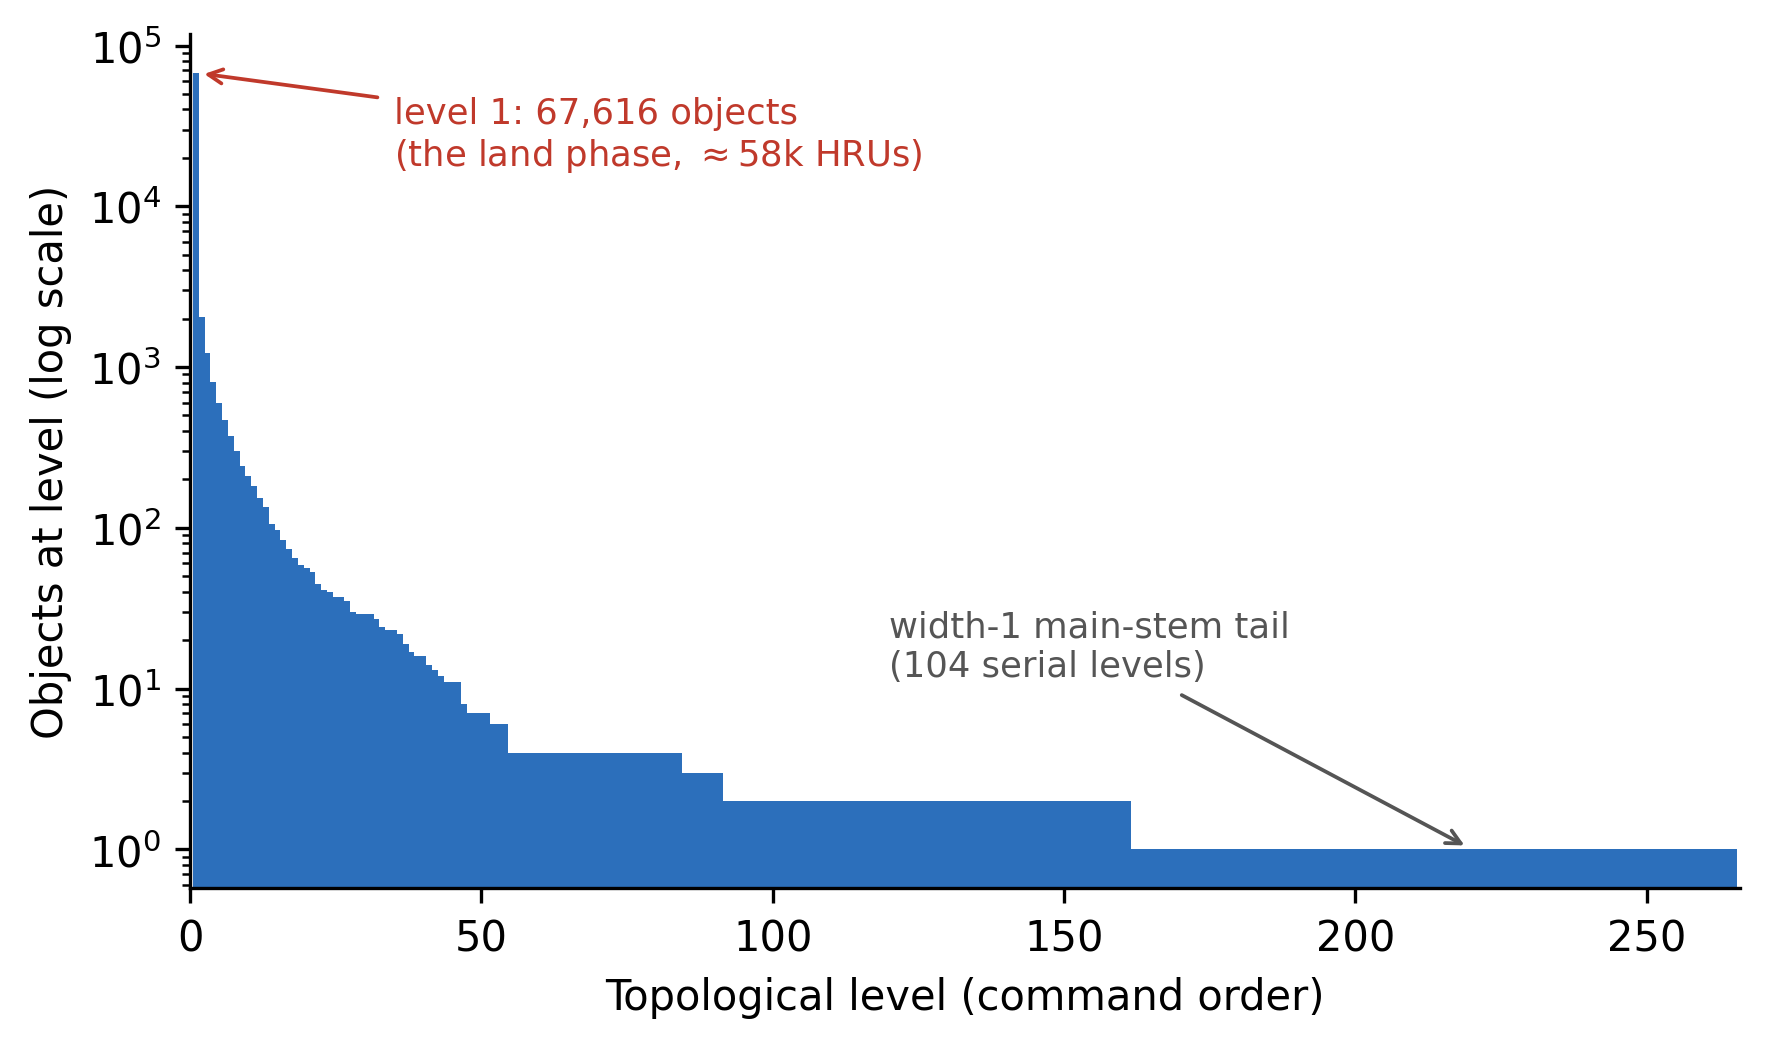
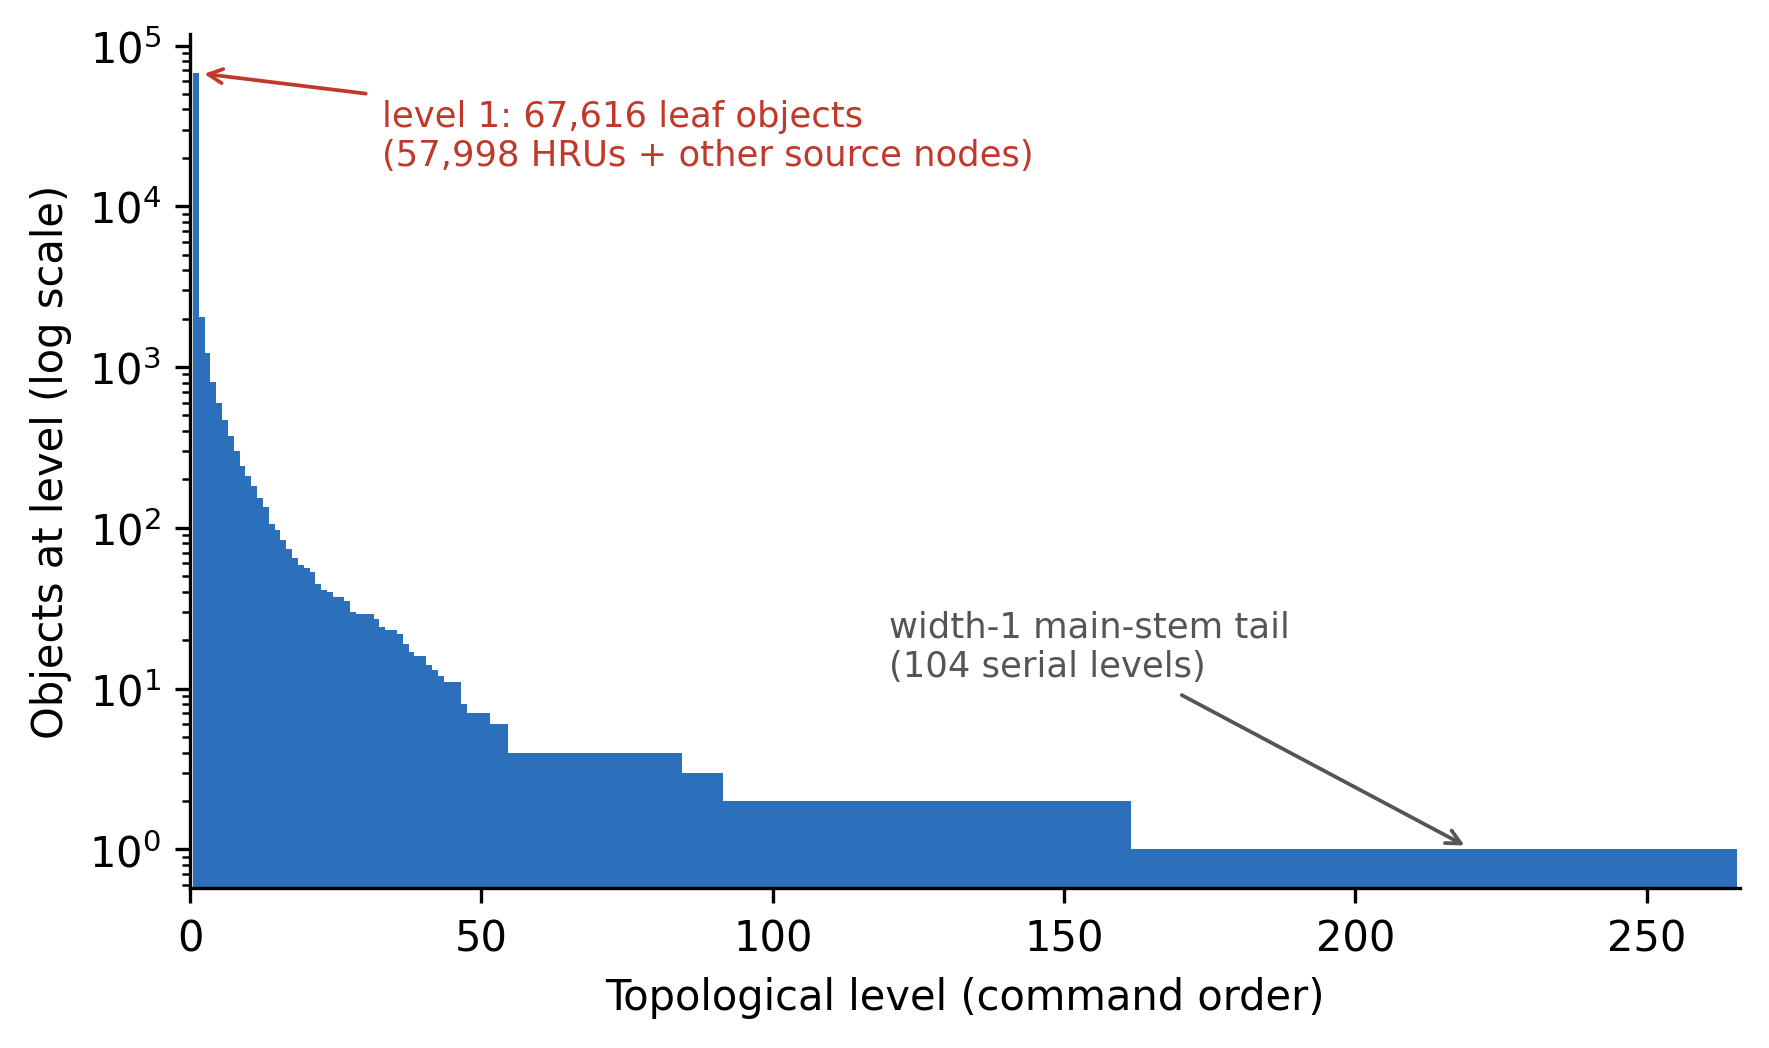
Reviewer revisions: reconcile Figure 1 annotation (67,616 leaf objects)

Changed region(s): [[0.2176, 0.0916, 0.5907, 0.1832], [0.1244, 0.0611, 0.2176, 0.0916]]

diff --git a/make_figures.py b/make_figures.py
@@ -94,8 +94,8 @@ ax.set_yscale("log")
 ax.set_xlabel("Topological level (command order)")
 ax.set_ylabel("Objects at level (log scale)")
 ax.set_xlim(0, len(levels) + 1)
-ax.annotate(f"level 1: {lev_counts[0]:,} objects\n(the land phase, $\\approx$58k HRUs)",
-            xy=(1, lev_counts[0]), xytext=(35, 18000), fontsize=8.5, color="#c0392b",
+ax.annotate(f"level 1: {lev_counts[0]:,} leaf objects\n(57,998 HRUs + other source nodes)",
+            xy=(1, lev_counts[0]), xytext=(33, 18000), fontsize=8.5, color="#c0392b",
             arrowprops=dict(arrowstyle="->", color="#c0392b", lw=0.9))
 ax.annotate(f"width-1 main-stem tail\n({n_width1} serial levels)",
             xy=(220, 1), xytext=(120, 12), fontsize=8.5, color="#555",